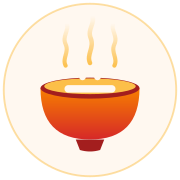
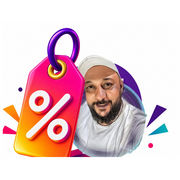
لوجو ترباوية الجديد + تاب حمّل الأبليكيشن + صور هيرو للأقسام + تصغير شريط البحث والسكرول بار موف
- استخدام لوجو ترباوية الرسمي (تاج الخصم + صورة ترباوية) كأيقونة الأبليكيشن (icon.png/apple-icon.png)
- نفس اللوجو في الهيدر بدل الأيقونة القديمة
- تاب جديد "حمّل الأبليكيشن 📲" مثبت في شريط الأقسام + رابط في القائمة الرئيسية وقائمة الموبايل
- صفحة /app جديدة (قريبًا) لتحميل الأبليكيشن
- صور هيرو حقيقية لصفحتي الصيدليات والسوبر ماركت (بدل الخلفية المتدرجة فقط) مع نفس تراكب الموف الغامق
- تصغير شريط البحث في الهيرو الرئيسي (max-w-sm بدل max-w-xl، حشو وخط أصغر)
- سكرول بار الموقع بقى رفيع ولونه موف (#7238B5) بدل البرتقالي القديم، متوافق مع Chrome/Firefox

diff --git a/src/components/Header.tsx b/src/components/Header.tsx
@@ -11,7 +11,11 @@ const VERTICALS = [
   { href: '/', label: 'المطاعم', icon: '🍽' },
   { href: '/pharmacies', label: 'الصيدليات', icon: '💊' },
   { href: '/supermarket', label: 'سوبر ماركت', icon: '🛒' },
+  { href: '/app', label: 'حمّل الأبليكيشن', icon: '📲' },
 ];
+
+const APP_TAB = VERTICALS[VERTICALS.length - 1];
+const SECTION_TABS = VERTICALS.slice(0, -1);
 
 export default function Header() {
   const pathname = usePathname();
@@ -58,7 +62,7 @@ export default function Header() {
       <div className="max-w-6xl mx-auto px-4 py-3 flex items-center justify-between">
         <Link href="/" className="flex items-center gap-2 no-underline shrink-0">
           {/* eslint-disable-next-line @next/next/no-img-element */}
-          <img src="/brand/logo-mark.svg" alt="ترباوية" className="w-8 h-8" />
+          <img src="/brand/logo-icon.png" alt="ترباوية" className="w-9 h-9 rounded-full bg-white/95 p-0.5 object-cover" />
           <span className="text-xl font-extrabold text-white">ترباوية</span>
         </Link>
 
@@ -69,6 +73,12 @@ export default function Header() {
             className="flex items-center gap-1 text-brand-amber hover:text-white no-underline"
           >
             🔥 الدلع مستنيك
+          </Link>
+          <Link
+            href="/app"
+            className="flex items-center gap-1 text-brand-amber hover:text-white no-underline"
+          >
+            📲 حمّل الأبليكيشن
           </Link>
           <Link href="/about" className="text-white/90 hover:text-white no-underline">عن ترباوية</Link>
           <Link href="/join" className="text-white/90 hover:text-white no-underline">انضم كمطعم</Link>
@@ -141,24 +151,37 @@ export default function Header() {
 
       {/* تابات الأقسام */}
       <div className="bg-white border-t border-violet-100">
-        <div className="max-w-6xl mx-auto px-4 flex items-center gap-2 overflow-x-auto">
-          {VERTICALS.map((v) => {
-            const active = v.href === '/' ? pathname === '/' : pathname?.startsWith(v.href);
-            return (
-              <Link
-                key={v.href}
-                href={v.href}
-                className={`flex items-center gap-1.5 whitespace-nowrap px-4 py-2.5 text-sm font-bold border-b-2 no-underline transition-colors ${
-                  active
-                    ? 'border-brand-red text-brand-red'
-                    : 'border-transparent text-brand-ink/50 hover:text-brand-red'
-                }`}
-              >
-                <span>{v.icon}</span>
-                {v.label}
-              </Link>
-            );
-          })}
+        <div className="max-w-6xl mx-auto px-4 flex items-center justify-between gap-2">
+          <div className="flex items-center gap-2 overflow-x-auto min-w-0">
+            {SECTION_TABS.map((v) => {
+              const active = v.href === '/' ? pathname === '/' : pathname?.startsWith(v.href);
+              return (
+                <Link
+                  key={v.href}
+                  href={v.href}
+                  className={`flex items-center gap-1.5 whitespace-nowrap px-4 py-2.5 text-sm font-bold border-b-2 no-underline transition-colors ${
+                    active
+                      ? 'border-brand-red text-brand-red'
+                      : 'border-transparent text-brand-ink/50 hover:text-brand-red'
+                  }`}
+                >
+                  <span>{v.icon}</span>
+                  {v.label}
+                </Link>
+              );
+            })}
+          </div>
+          <Link
+            href={APP_TAB.href}
+            className={`flex items-center gap-1.5 whitespace-nowrap shrink-0 px-3 md:px-4 py-2.5 text-sm font-bold border-b-2 no-underline transition-colors ${
+              pathname?.startsWith(APP_TAB.href)
+                ? 'border-brand-red text-brand-red'
+                : 'border-transparent text-brand-ink/50 hover:text-brand-red'
+            }`}
+          >
+            <span>{APP_TAB.icon}</span>
+            <span className="hidden sm:inline">{APP_TAB.label}</span>
+          </Link>
         </div>
       </div>
 
@@ -167,6 +190,7 @@ export default function Header() {
           <nav className="max-w-6xl mx-auto px-4 py-3 flex flex-col gap-1 text-sm font-semibold">
             <Link href="/restaurants" onClick={() => setMobileOpen(false)} className="text-white/90 hover:text-white no-underline py-2">المطاعم</Link>
             <Link href="/offers" onClick={() => setMobileOpen(false)} className="text-brand-amber hover:text-white no-underline py-2 font-bold">🔥 الدلع مستنيك</Link>
+            <Link href="/app" onClick={() => setMobileOpen(false)} className="text-brand-amber hover:text-white no-underline py-2 font-bold">📲 حمّل الأبليكيشن</Link>
             <Link href="/favorites" onClick={() => setMobileOpen(false)} className="text-white/90 hover:text-white no-underline py-2 flex items-center gap-2"><Heart size={16} />المفضلة</Link>
             <Link href="/account/orders" onClick={() => setMobileOpen(false)} className="text-white/90 hover:text-white no-underline py-2 flex items-center gap-2"><ListOrdered size={16} />طلباتي</Link>
             {!isLoggedIn && (

diff --git a/src/app/app/page.tsx b/src/app/app/page.tsx
@@ -1,0 +1,39 @@
+import Header from '@/components/Header';
+import Footer from '@/components/Footer';
+
+export default function AppDownloadPage() {
+  return (
+    <>
+      <Header />
+      <main>
+        <section className="relative overflow-hidden bg-gradient-to-br from-violet-900 via-violet-700 to-violet-500 text-white">
+          <div className="pointer-events-none absolute -top-16 -left-10 w-56 h-56 rounded-full bg-white/10 blur-3xl" />
+          <div className="pointer-events-none absolute bottom-0 right-0 w-64 h-64 rounded-full bg-black/10 blur-3xl" />
+          <div className="relative max-w-2xl mx-auto px-4 py-16 md:py-24 text-center">
+            <span className="inline-flex items-center gap-1.5 bg-white/15 backdrop-blur-sm border border-white/25 rounded-full px-4 py-1.5 text-xs md:text-sm font-bold mb-5">
+              📲 قريبًا
+            </span>
+            <h1 className="text-2xl md:text-4xl font-extrabold mb-3">حمّل أبليكيشن ترباوية</h1>
+            <p className="text-white/85 text-base md:text-lg">
+              الأبليكيشن جاري تجهيزه دلوقتي — هيبقى متاح قريبًا على الآيفون والأندرويد.
+            </p>
+          </div>
+        </section>
+        <div className="max-w-2xl mx-auto px-4 py-14 text-center">
+          <p className="text-brand-ink/60 mb-6">
+            هنعلن هنا وعلى صفحات التواصل أول ما الأبليكيشن يبقى متاح للتحميل.
+          </p>
+          <div className="flex items-center justify-center gap-3 flex-wrap">
+            <span className="inline-flex items-center gap-2 bg-gray-100 text-brand-ink/40 font-bold px-5 py-3 rounded-xl cursor-not-allowed">
+              🍎 App Store — قريبًا
+            </span>
+            <span className="inline-flex items-center gap-2 bg-gray-100 text-brand-ink/40 font-bold px-5 py-3 rounded-xl cursor-not-allowed">
+              ▶ Google Play — قريبًا
+            </span>
+          </div>
+        </div>
+      </main>
+      <Footer />
+    </>
+  );
+}

diff --git a/src/app/HeroSearch.tsx b/src/app/HeroSearch.tsx
@@ -17,20 +17,20 @@ export default function HeroSearch() {
   return (
     <form
       onSubmit={handleSubmit}
-      className="w-full max-w-xl mx-auto flex items-center gap-2 bg-white rounded-2xl p-2 shadow-lg shadow-black/10"
+      className="w-full max-w-sm mx-auto flex items-center gap-1.5 bg-white rounded-xl p-1.5 shadow-lg shadow-black/10"
     >
       <div className="relative flex-1">
-        <Search className="absolute right-3.5 top-1/2 -translate-y-1/2 text-brand-ink/30" size={18} />
+        <Search className="absolute right-3 top-1/2 -translate-y-1/2 text-brand-ink/30" size={15} />
         <input
           value={query}
           onChange={(e) => setQuery(e.target.value)}
           placeholder="ادور على مطعم أو أكلة..."
-          className="w-full pr-11 pl-3 py-2.5 text-sm text-brand-ink bg-transparent focus:outline-none"
+          className="w-full pr-9 pl-2 py-1.5 text-xs text-brand-ink bg-transparent focus:outline-none"
         />
       </div>
       <button
         type="submit"
-        className="shrink-0 bg-brand-red text-white font-extrabold px-6 py-2.5 rounded-xl hover:bg-brand-red-dark transition-colors"
+        className="shrink-0 bg-brand-red text-white font-extrabold text-sm px-4 py-1.5 rounded-lg hover:bg-brand-red-dark transition-colors"
       >
         دور
       </button>

diff --git a/src/app/supermarket/page.tsx b/src/app/supermarket/page.tsx
@@ -6,7 +6,14 @@ export default function SupermarketPage() {
     <>
       <Header />
       <main>
-        <section className="relative overflow-hidden bg-gradient-to-br from-violet-900 via-violet-700 to-violet-500 text-white">
+        <section className="relative overflow-hidden text-white">
+          {/* eslint-disable-next-line @next/next/no-img-element */}
+          <img
+            src="/brand/hero-supermarket.jpg"
+            alt=""
+            className="absolute inset-0 w-full h-full object-cover"
+          />
+          <div className="absolute inset-0 bg-gradient-to-b from-violet-950/90 via-violet-900/75 to-violet-950/95" />
           <div className="pointer-events-none absolute -top-16 -left-10 w-56 h-56 rounded-full bg-white/10 blur-3xl" />
           <div className="pointer-events-none absolute bottom-0 right-0 w-64 h-64 rounded-full bg-black/10 blur-3xl" />
           <div className="relative max-w-2xl mx-auto px-4 py-16 md:py-24 text-center">

diff --git a/src/app/pharmacies/page.tsx b/src/app/pharmacies/page.tsx
@@ -6,7 +6,14 @@ export default function PharmaciesPage() {
     <>
       <Header />
       <main>
-        <section className="relative overflow-hidden bg-gradient-to-br from-violet-900 via-violet-700 to-violet-500 text-white">
+        <section className="relative overflow-hidden text-white">
+          {/* eslint-disable-next-line @next/next/no-img-element */}
+          <img
+            src="/brand/hero-pharmacy.jpg"
+            alt=""
+            className="absolute inset-0 w-full h-full object-cover"
+          />
+          <div className="absolute inset-0 bg-gradient-to-b from-violet-950/90 via-violet-900/75 to-violet-950/95" />
           <div className="pointer-events-none absolute -top-16 -left-10 w-56 h-56 rounded-full bg-white/10 blur-3xl" />
           <div className="pointer-events-none absolute bottom-0 right-0 w-64 h-64 rounded-full bg-black/10 blur-3xl" />
           <div className="relative max-w-2xl mx-auto px-4 py-16 md:py-24 text-center">

diff --git a/src/app/globals.css b/src/app/globals.css
@@ -7,11 +7,15 @@
 }
 
 body {
-  background: #FFF8F0;
-  color: #241A17;
+  background: #F9FAFB;
+  color: #2C1548;
 }
 
-/* شريط سكرول بسيط متناسق مع الهوية */
-::-webkit-scrollbar { height: 8px; width: 8px; }
-::-webkit-scrollbar-thumb { background: #F77F00; border-radius: 999px; }
-::-webkit-scrollbar-track { background: #FFF8F0; }
+/* شريط سكرول رفيع بلون الهوية الموف */
+::-webkit-scrollbar { height: 6px; width: 6px; }
+::-webkit-scrollbar-thumb { background: #7238B5; border-radius: 999px; }
+::-webkit-scrollbar-thumb:hover { background: #5C2C93; }
+::-webkit-scrollbar-track { background: #F3F4F6; }
+
+/* Firefox */
+* { scrollbar-color: #7238B5 #F3F4F6; scrollbar-width: thin; }
